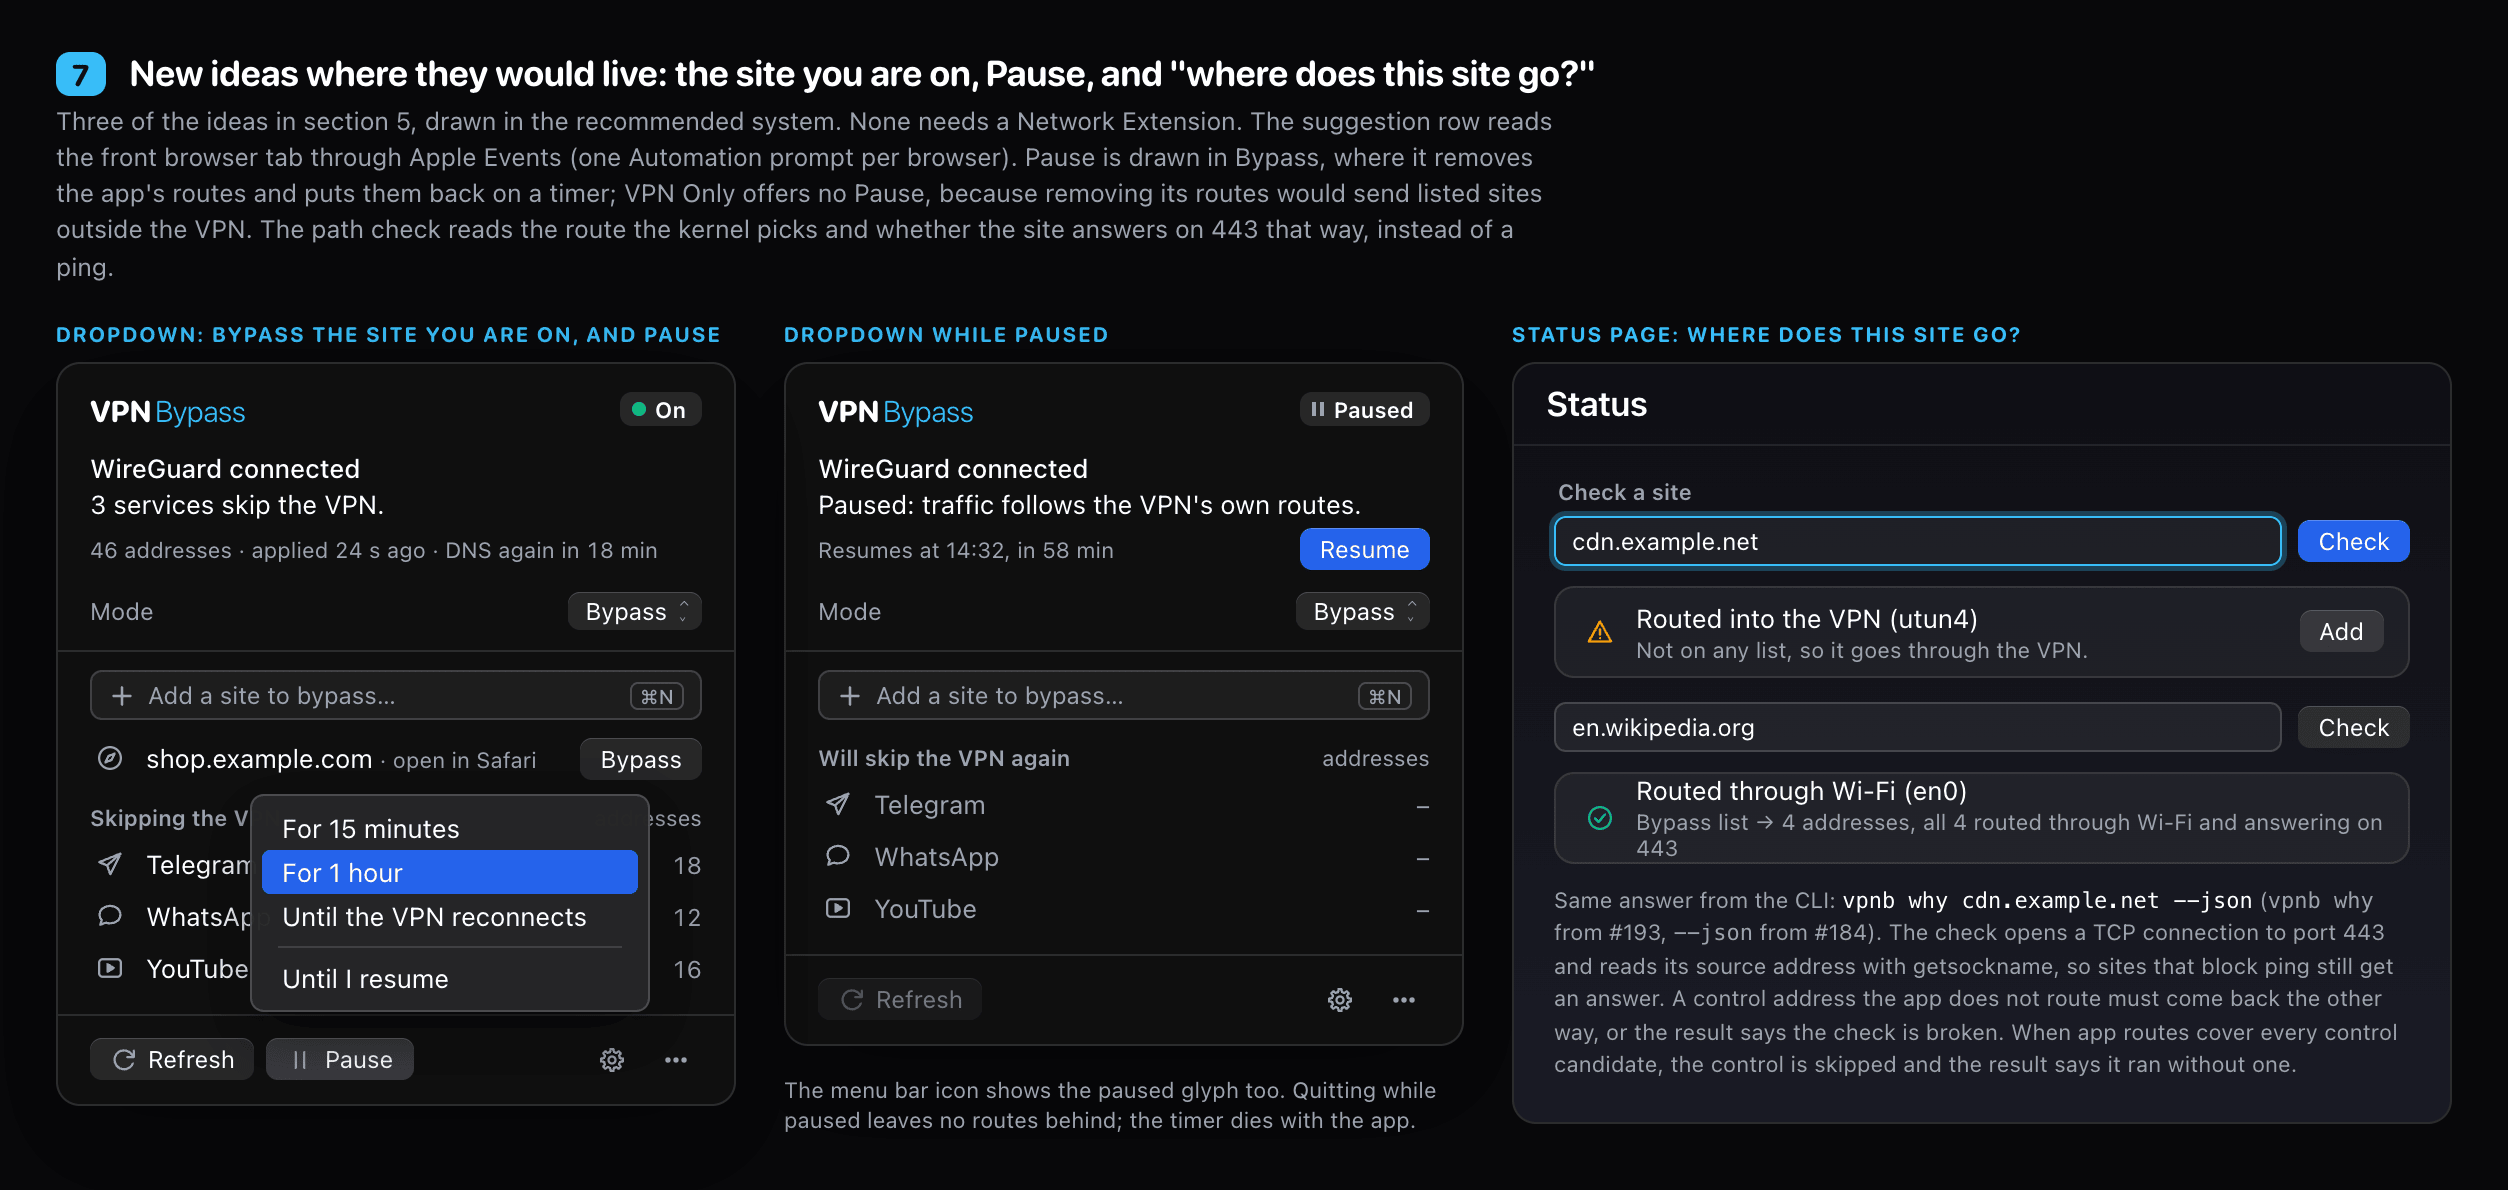
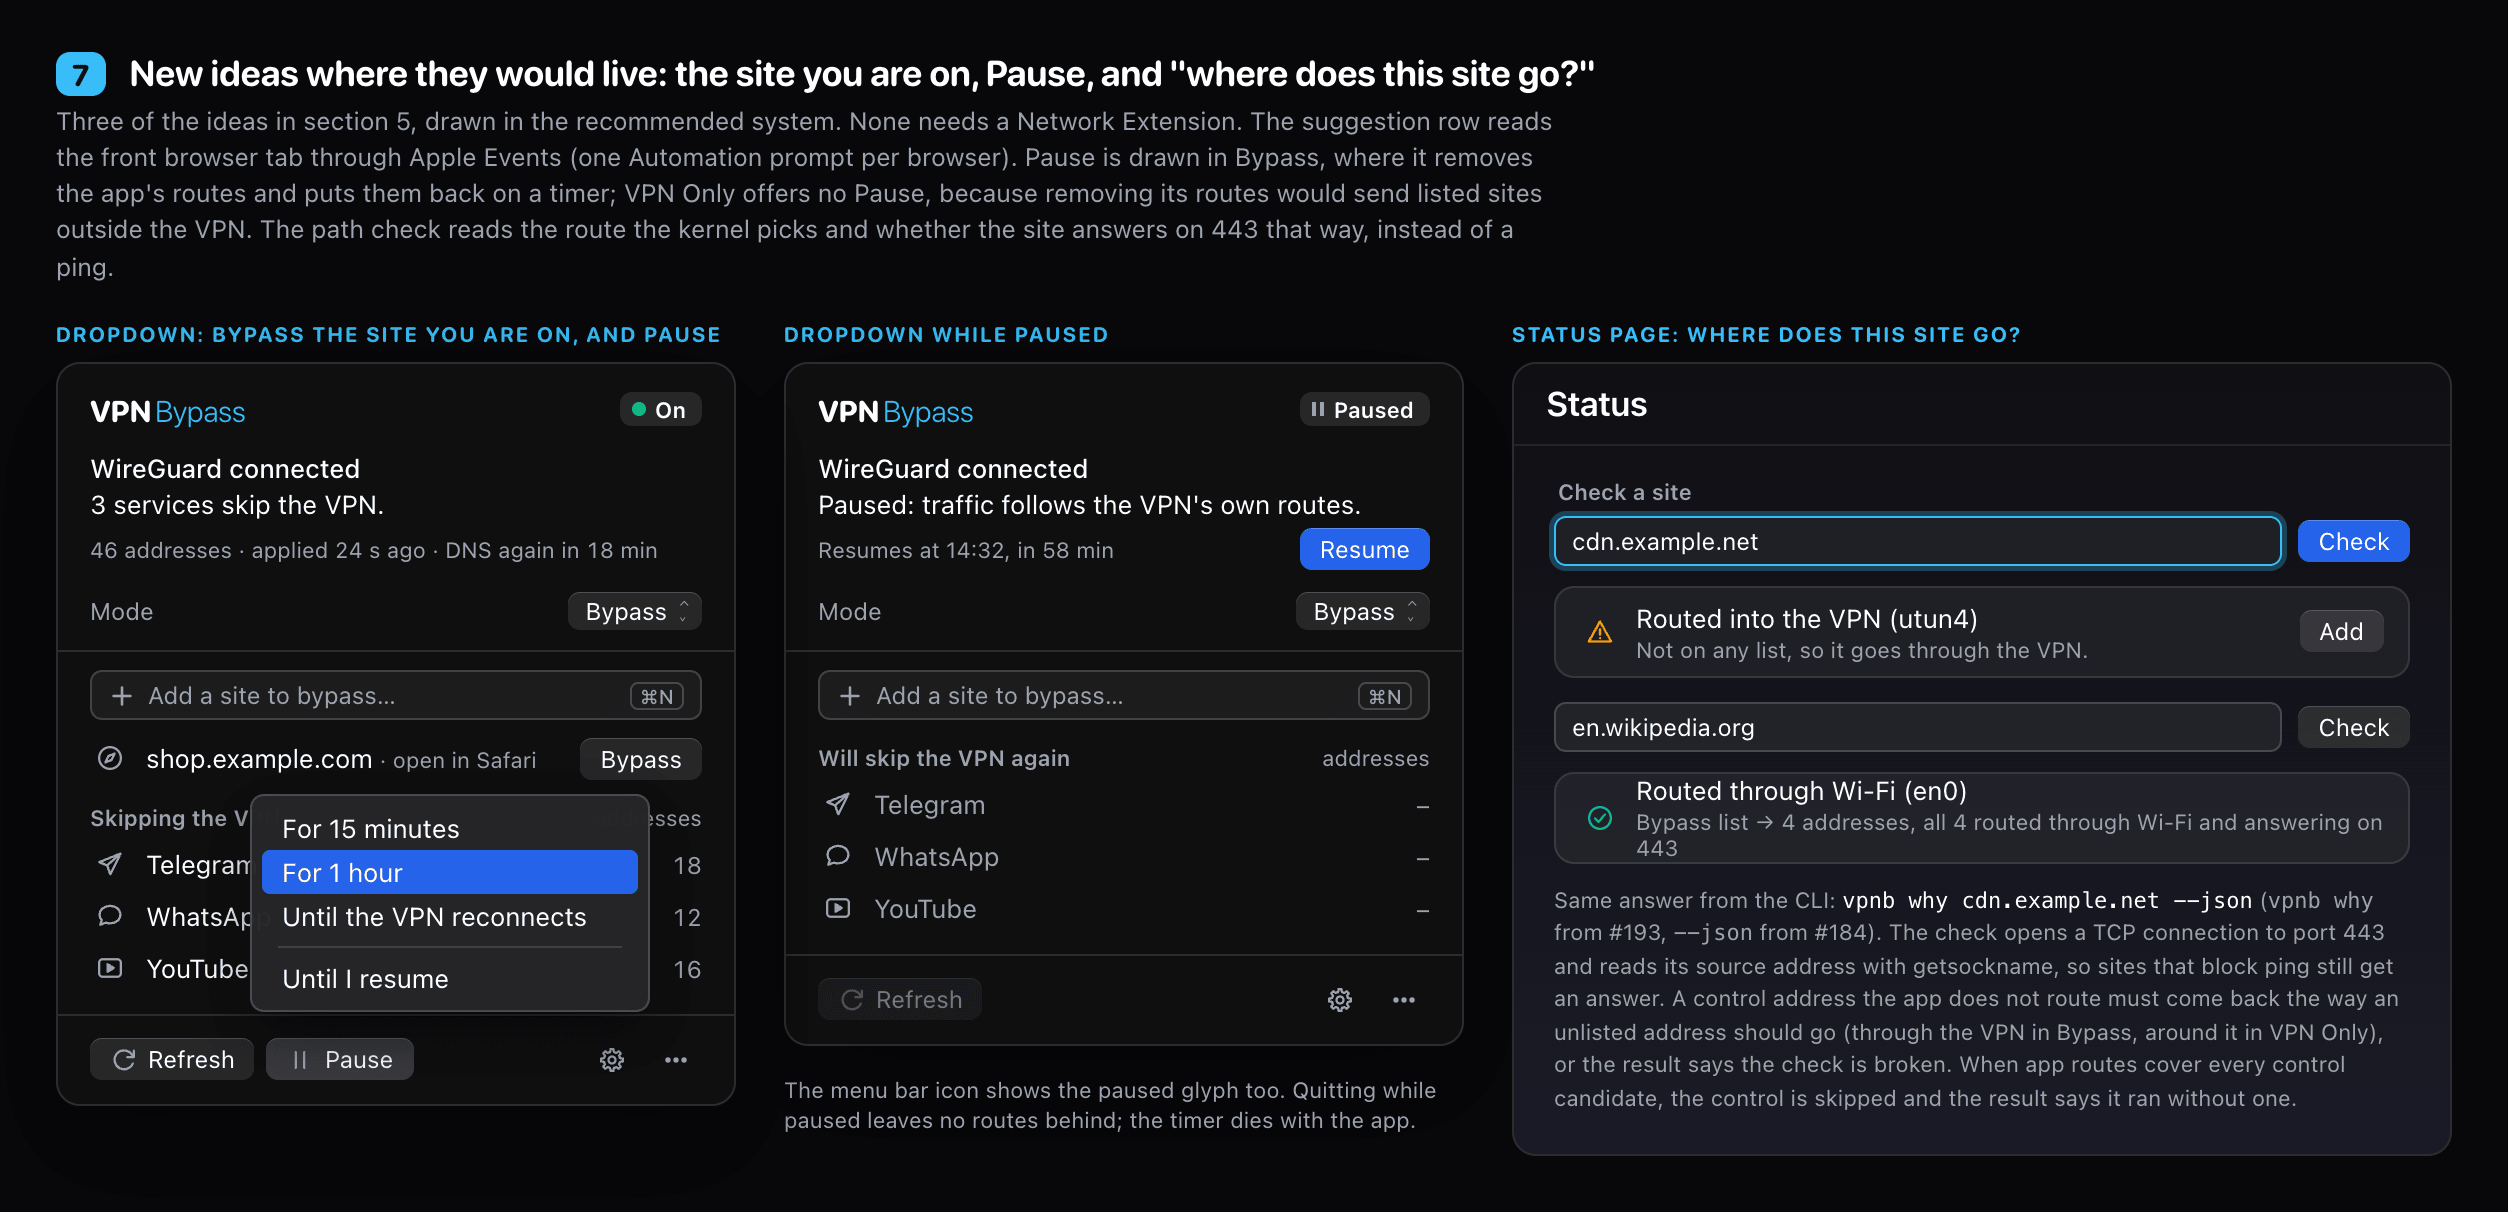
docs(design): name the DNS lookups that still leave in VPN Only, and the control's real baseline

diff --git a/docs/design/proposals/rework/07-new-ideas.html b/docs/design/proposals/rework/07-new-ideas.html
@@ -56,7 +56,7 @@
         <div class="box" style="margin-top:10px">
           <div class="row2 two"><span class="lead"><i data-g="checkc" class="live"></i></span><div class="fill"><div class="name">Routed through Wi-Fi (en0)</div><div class="det">Bypass list → 4 addresses, all 4 routed through Wi-Fi and answering on 443</div></div></div>
         </div>
-        <div class="ty-detail" style="margin-top:10px;line-height:1.5">Same answer from the CLI: <span class="ty-mono" style="font-size:11px;color:var(--t1)">vpnb why cdn.example.net --json</span> (<span class="ty-mono" style="font-size:11px">vpnb why</span> from #193, <span class="ty-mono" style="font-size:11px">--json</span> from #184). The check opens a TCP connection to port 443 and reads its source address with getsockname, so sites that block ping still get an answer. A control address the app does not route must come back the other way, or the result says the check is broken. When app routes cover every control candidate, the control is skipped and the result says it ran without one.</div>
+        <div class="ty-detail" style="margin-top:10px;line-height:1.5">Same answer from the CLI: <span class="ty-mono" style="font-size:11px;color:var(--t1)">vpnb why cdn.example.net --json</span> (<span class="ty-mono" style="font-size:11px">vpnb why</span> from #193, <span class="ty-mono" style="font-size:11px">--json</span> from #184). The check opens a TCP connection to port 443 and reads its source address with getsockname, so sites that block ping still get an answer. A control address the app does not route must come back the way an unlisted address should go (through the VPN in Bypass, around it in VPN Only), or the result says the check is broken. When app routes cover every control candidate, the control is skipped and the result says it ran without one.</div>
       </div>
     </div>
   </div>

diff --git a/docs/design/proposals/rework/02-system.html b/docs/design/proposals/rework/02-system.html
@@ -7,7 +7,7 @@
   .sw2 .m { color:var(--t2); }
   .panel { background:linear-gradient(var(--win),var(--win2)); border:1px solid #2C2C2C; border-radius:12px; padding:16px 18px; }
   .ts { display:flex; align-items:baseline; gap:14px; }
-  .ts .k { width:70px; font:400 11px ui-monospace,monospace; color:var(--t3); }
+  .ts .k { width:70px; font:400 11px ui-monospace,monospace; color:var(--t2); }
   .sp { display:inline-block; background:rgba(56,189,248,.35); height:14px; vertical-align:middle; }
 </style></head><body>
 <div class="head"><span class="num">2</span><span class="title">The system: tokens and the seven shared components</span></div>

diff --git a/docs/design/APP-REWORK-PROPOSALS.md b/docs/design/APP-REWORK-PROPOSALS.md
@@ -268,7 +268,7 @@ Filtered from the product research. Two facts shape the list. First, every per-a
 
 | # | Idea | Problem | How | Size | Needs NE | Recommendation |
 |---|---|---|---|---|---|---|
-| 1 | **Path check** | "Verify Routes" pings (`RouteManager.verifyRoute`, `RouteManager.swift:4930`), so it tests whether a site answers, not which way it went. A site that blocks ping fails even when its route is right, which is why the option is off by default. | Ask the kernel which interface an address takes (`routeLookupAsync`, `:750`), then open a TCP connection to 443 and read its source address with `getsockname`. Both steps read the same routing table, so what it reports is "the route the kernel picks, and whether the site answers on 443 that way", not proof of where packets leave. It cannot see a packet-filter `route-to`, a content filter, or a tunnel that captures traffic below the route table, which is the #186 case (idea 8 covers that by behaviour). It carries its own control that must fail: each run also checks one address the app does not route (in Bypass, it must come back as the VPN; in VPN Only, as the physical interface), and the result is shown as "check broken" if the control does not come back the other way. VPN Only gets the mirror check. On a split-tunnel VPN in Bypass the control can also leave outside the VPN; the check then reads broken rather than passing, because it cannot tell the two ways apart. | S-M | No | **Build first.** It replaces a ping with the question users keep checking with outside tools (#67, #184), and says plainly what it cannot see. |
+| 1 | **Path check** | "Verify Routes" pings (`RouteManager.verifyRoute`, `RouteManager.swift:4930`), so it tests whether a site answers, not which way it went. A site that blocks ping fails even when its route is right, which is why the option is off by default. | Ask the kernel which interface an address takes (`routeLookupAsync`, `:750`), then open a TCP connection to 443 and read its source address with `getsockname`. Both steps read the same routing table, so what it reports is "the route the kernel picks, and whether the site answers on 443 that way", not proof of where packets leave. It cannot see a packet-filter `route-to`, a content filter, or a tunnel that captures traffic below the route table, which is the #186 case (idea 8 covers that by behaviour). It carries its own control that must fail: each run also checks one address the app does not route (in Bypass, it must come back as the VPN; in VPN Only, as the physical interface), and the result is shown as "check broken" if the control does not come back the way an unlisted address should go. VPN Only gets the mirror check. On a split-tunnel VPN in Bypass the control can also leave outside the VPN; the check then reads broken rather than passing, because it cannot tell the two ways apart. | S-M | No | **Build first.** It replaces a ping with the question users keep checking with outside tools (#67, #184), and says plainly what it cannot see. |
 | 2 | **"Where does this site go?"** | A user cannot tell which entry routes a site, or why it still goes through the VPN. | A field on Status, plus `vpnb why <host> [--json]`. Resolve as the app does, match against `ActiveRoute.source` (`:238-244`), wildcards, then Custom rules in first-match order (#184's priority logic), then run check 1 on every address the site resolves to and say how many took each path ("4 addresses, all 4 routed through Wi-Fi and answering on 443"), never more than the check can see. One sentence, with an Add button when the site is not listed. | S | No | **Build with 1.** They share code. |
 | 3 | **Bypass the site you are on** | The most common action is "this page needs to skip the VPN", and today it means copying the host. | A dropdown row, "shop.example.com · open in Safari [Bypass]". It reads the front tab through Apple Events (Safari and Chromium browsers; Firefox does not support it). The alternatives are clipboard only (no prompt, but not discoverable) or a browser extension (L, two more things to ship). | M | No | **Build.** Apple Events, at the cost of one Automation prompt per browser, plus signing work: the hardened-runtime app needs the `com.apple.security.automation.apple-events` entitlement and an `NSAppleEventsUsageDescription` string in `Info.plist`. `VPNBypass.entitlements` is not passed to `codesign` today (`scripts/sign-and-notarize.sh:36`), so that script learns `--entitlements`, and the change ships through the signed, notarized release path, never a re-sign. |
 | 4 | **Pause** | See flow fix 2. | See flow fix 2. | S | No | **Build** (it is flow fix 2). |
@@ -287,7 +287,7 @@ Filtered from the product research. Two facts shape the list. First, every per-a
 - Getting around another VPN's kill switch is not on this list: `includeAllNetworks` scopes traffic above any extension of ours, so it stays impossible for a third-party app.
 - **DoH blocking**, and **attributing an exception to a process** (#184).
 
-**Dropped:** a bandwidth monitor and statistics (high effort, and idea 1 answers the real question), blocklists (a different product), iCloud sync (export and import plus profiles cover it), built-in schedules (idea 10 covers it), IPv6 leak protection as its own feature (listed names are covered: the forwarder drops AAAA answers, `WildcardDNS.swift:394-407`, and the resolver asks for IPv4 only, `DNSResolver.swift:150`; IPv6 literals and lookups that skip both, such as browser DoH, are not, and that gap is parked with NE), a separate DNS leak feature (hosts pinning and the scoped resolver cover listed names, and what is left is browser DoH, which is parked with NE), and MDM templates (no demand). Any history or suggestions feature must not keep observed DNS names on disk without a new explicit decision.
+**Dropped:** a bandwidth monitor and statistics (high effort, and idea 1 answers the real question), blocklists (a different product), iCloud sync (export and import plus profiles cover it), built-in schedules (idea 10 covers it), IPv6 leak protection as its own feature (listed names are covered: the forwarder drops AAAA answers, `WildcardDNS.swift:394-407`, and the resolver asks for IPv4 only, `DNSResolver.swift:150`; IPv6 literals and lookups that skip both, such as browser DoH, are not, and that gap is parked with NE), a separate DNS leak feature (hosts pinning and the scoped resolver cover the lookups apps make for listed names; what is left is browser DoH, parked with NE, and the app's own lookups, which ask the detected and listed DNS servers directly, so in VPN Only a listed name can still be asked of a resolver outside the VPN), and MDM templates (no demand). Any history or suggestions feature must not keep observed DNS names on disk without a new explicit decision.
 
 ## 6. Build order, in small PRs
 
